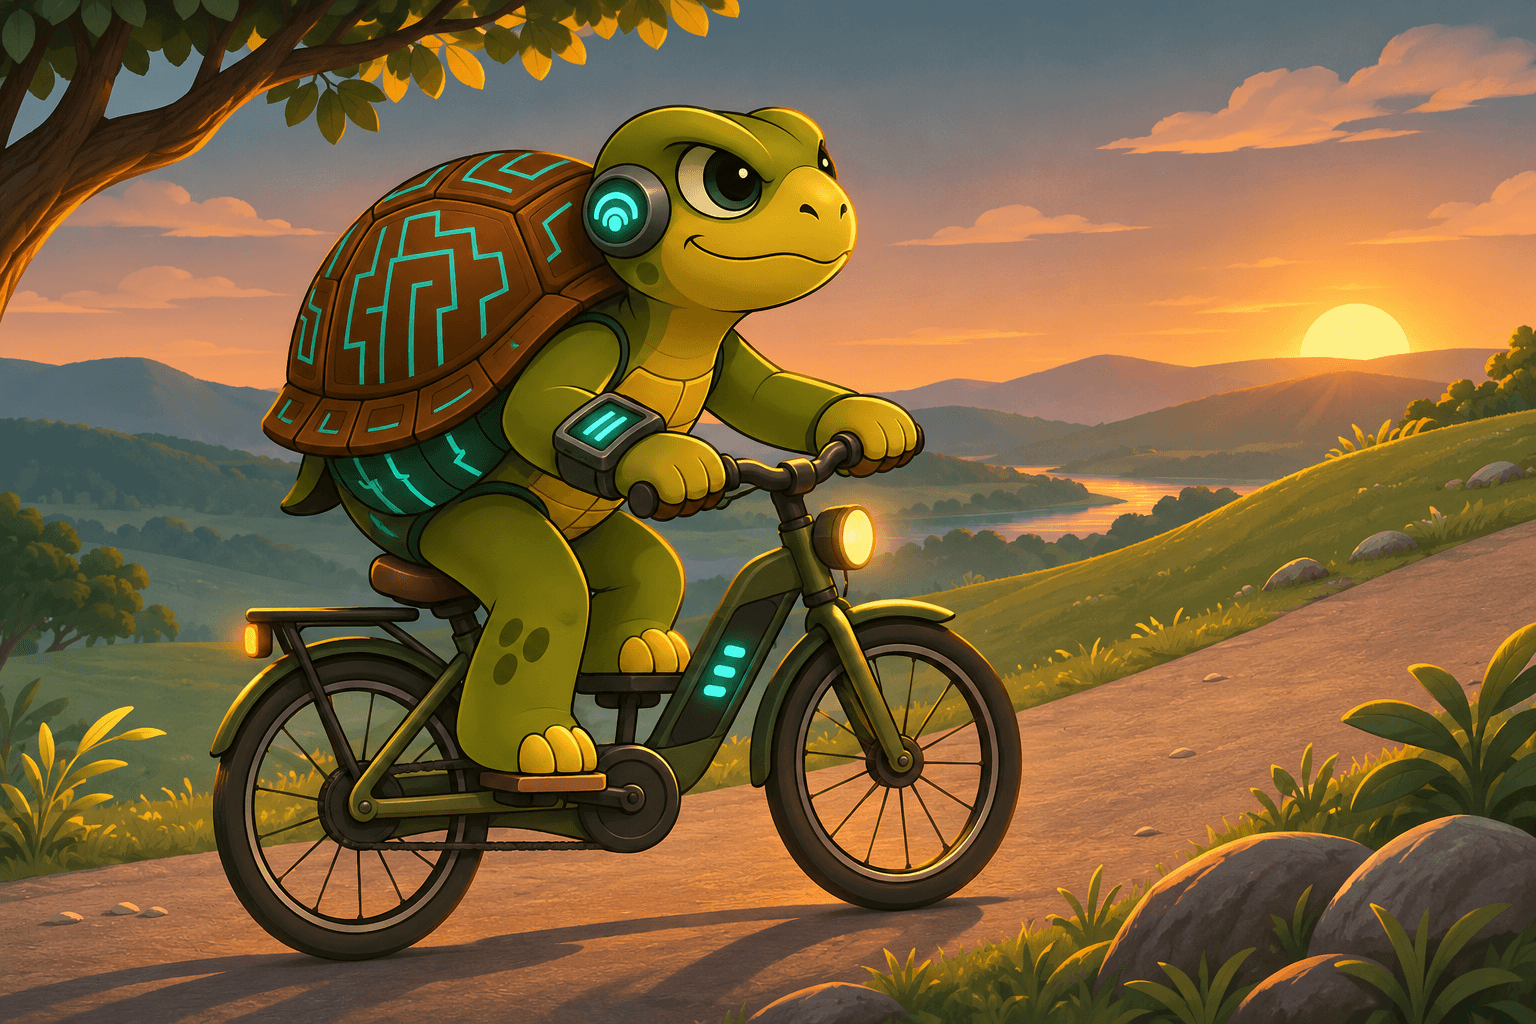
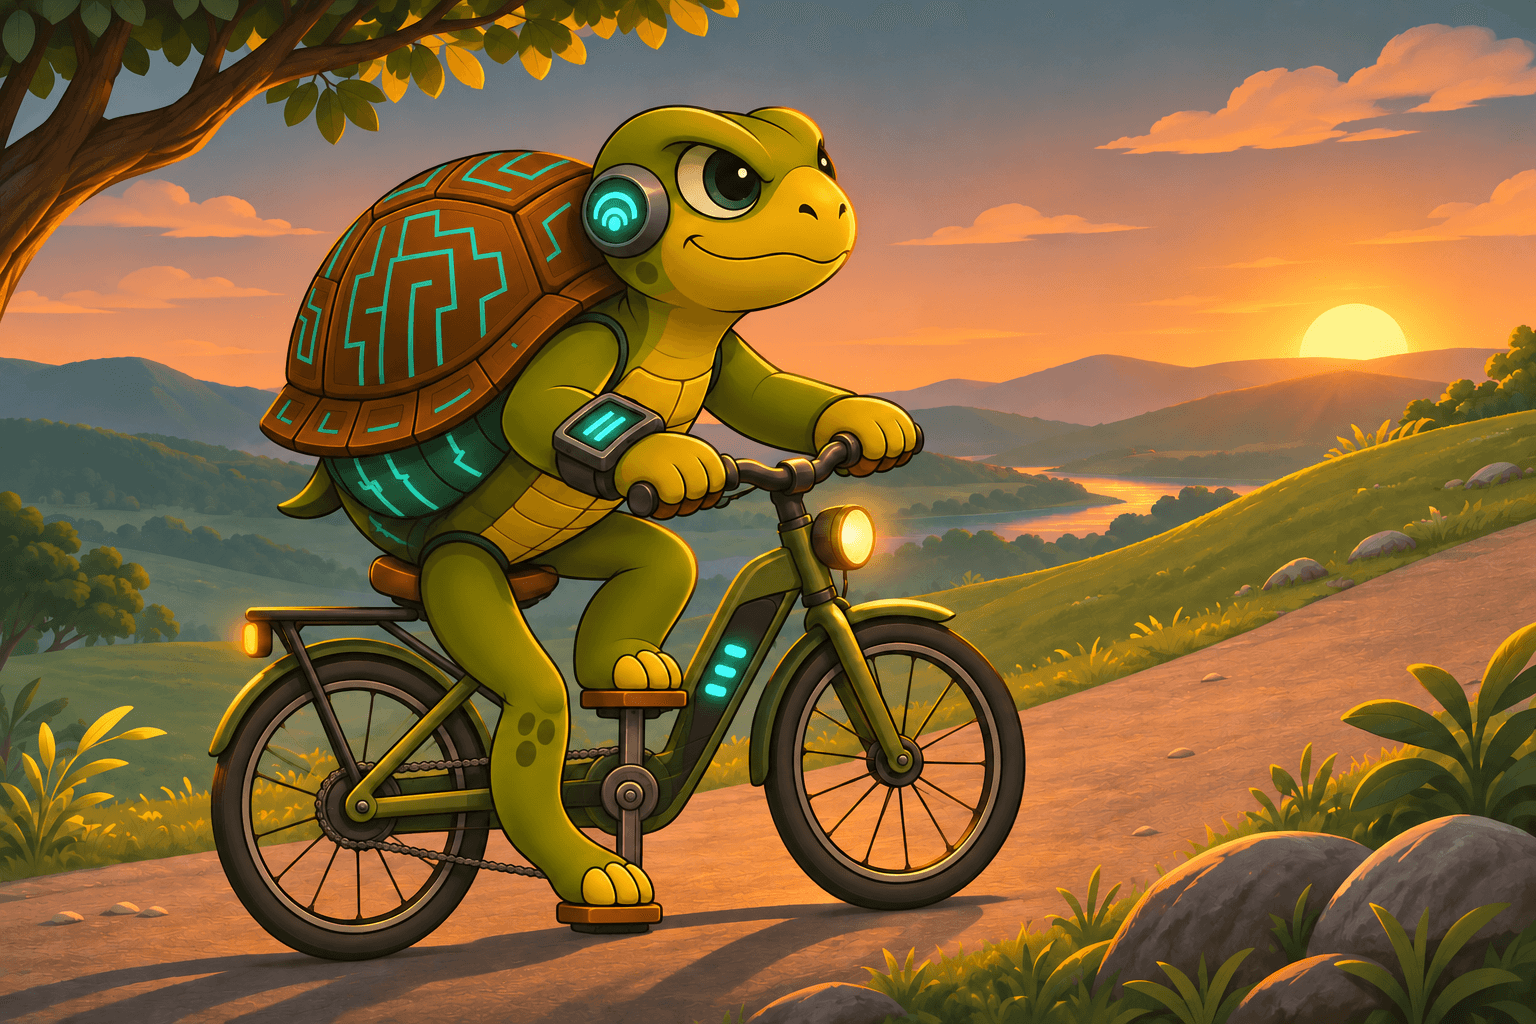
Center bicycle essay on understanding and correct cycling pose

diff --git a/src/content/blog/ai-electric-bicycle.md b/src/content/blog/ai-electric-bicycle.md
@@ -9,46 +9,32 @@ tags:
   - AI
   - reflection
   - growth
-description: "AI can amplify a small effort. A few unassisted miles help us see what we understand and preserve the skills we value."
+description: "Use assistance while keeping responsibility for direction, checking what you understand, and practicing the capabilities you want to carry forward."
 ogImage: /assets/images/ai-electric-bicycle-tinyfied.png
 ---
 
 ![Turtleand pedaling an electric bicycle along a gently rising path](/assets/images/ai-electric-bicycle-tinyfied.png)
 
-A short push on the pedals, and the bicycle carries you farther than your legs could manage alone.
+An electric bicycle makes each push carry us farther. AI can feel similar: a rough thought becomes an outline, and a difficult task becomes possible.
 
-Working with AI can feel like that. A rough idea becomes an outline. A partial explanation becomes a prototype. Even a weak first attempt can gain enough momentum to become something useful.
+That help is valuable. Three things still belong to the rider.
 
-That leverage is worth using. The question is what happens to the rider along the way.
+## Keep responsibility for direction
 
-## Enjoy the Assistance
+The motor helps us move. We choose the destination, question the route, and judge the consequences.
 
-There is no virtue in making every task unnecessarily difficult. Assistance can help us begin, explore unfamiliar territory, and finish work that would otherwise remain an intention.
+An AI suggestion may sound convincing and still be wrong. Before acting, ask whether it serves the purpose and who could be affected. A tool can suggest a path; responsibility for taking it stays with us.
 
-But speed does not choose the destination. We still need to steer, notice obstacles, and decide when the route is wrong.
+## Protect understanding
 
-AI adds another complication: its output can look convincing while containing mistakes. The bicycle metaphor helps describe leverage, but it does not remove the need to inspect what the tool produces.
+A useful result does not automatically mean we understand it. Research on [cognitive offloading](https://samgilbert.net/pubs/Risko2016TiCS.pdf) describes how external aids reduce mental demands, with both benefits and costs.
 
-## Keep Some Unassisted Miles
+Try part of the problem before looking at an answer. Then explain the reasoning in your own words. A missing step or an assumption you cannot justify shows where to look more closely. Use help to explore that gap, then check the explanation against evidence.
 
-Sometimes it is useful to switch the assistance off.
+## Practice what matters
 
-Write the first paragraph yourself. Sketch the solution before asking for code. Explain the idea from memory before requesting a summary.
+Finishing a task and learning from it are different aims. A [review of learning and performance](https://bjorklab.psych.ucla.edu/wp-content/uploads/sites/13/2016/11/soderstorm_ra_learningvsperformance.pdf) finds that immediate success can be a poor guide to lasting learning, and recalling information can help us retain it.
 
-This creates a moment in which you can see your own understanding. Where do you hesitate? Which connection is missing? What did the polished answer make seem obvious?
+Choose a capability you want to carry forward: explaining an idea, estimating a cost, or finding your way. Give that capability some practice. Assistance can provide examples, feedback, or relief from routine work. Doing everything manually is no guarantee of learning.
 
-Then bring the assistance back. Compare approaches. Ask about the gap. Use the tool to deepen the part you could not yet do.
-
-The point is to preserve the skills you want to rely on, rather than manually repeat everything a machine can handle.
-
-## Choose the Purpose of the Ride
-
-Some sessions are for getting somewhere. Others are for practice.
-
-On a delivery task, use assistance freely and verify the result. In a learning session, reserve a small part for your own effort before the answer arrives. Confusing those purposes can leave us either needlessly slow or productive without knowing what we learned.
-
-## A Small Experiment
-
-Choose one task this week and spend ten minutes attempting it without AI. Then use AI and compare. Keep a note of one thing you understood and one thing you still need to practice.
-
-The assistance can carry you farther. What do you want to remain able to do when you turn it off?
+**A small experiment:** After using any helpful tool today, look away and explain one key step yourself. Then check it. What did you miss?
